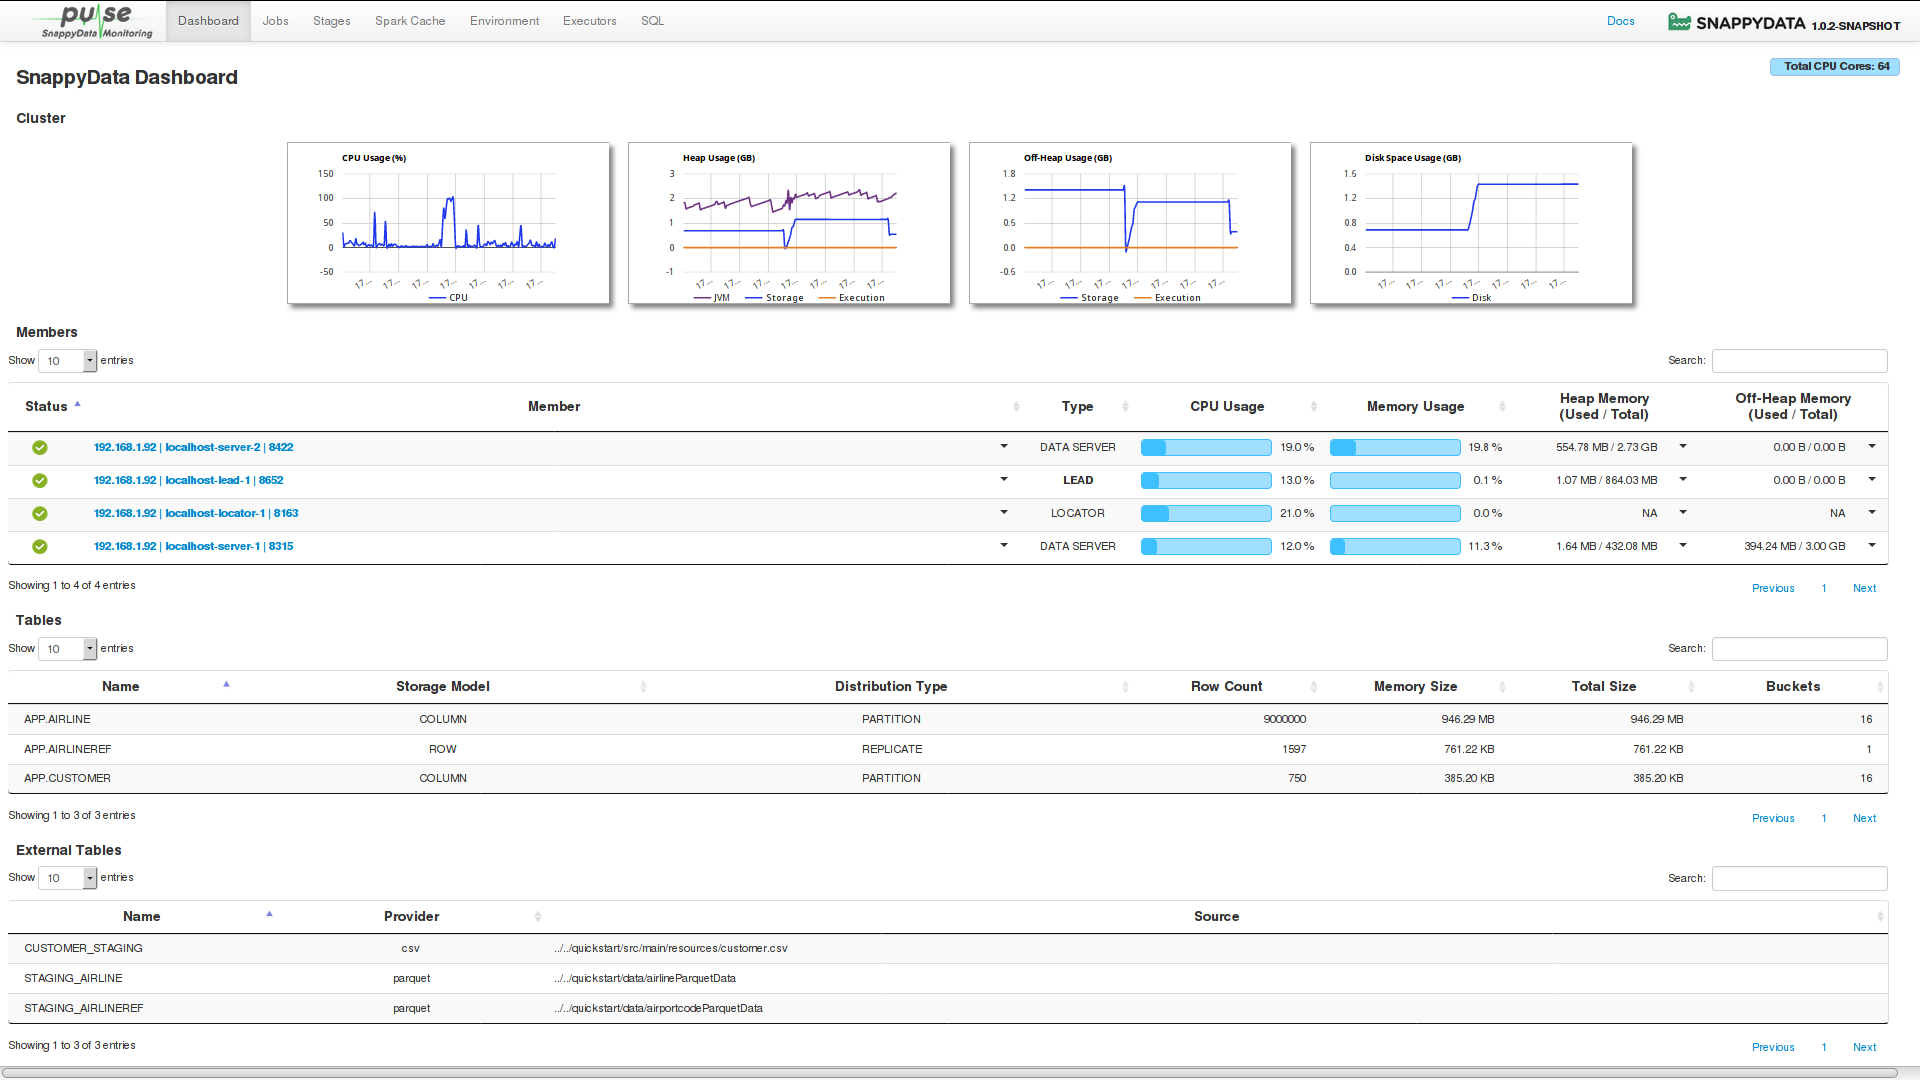
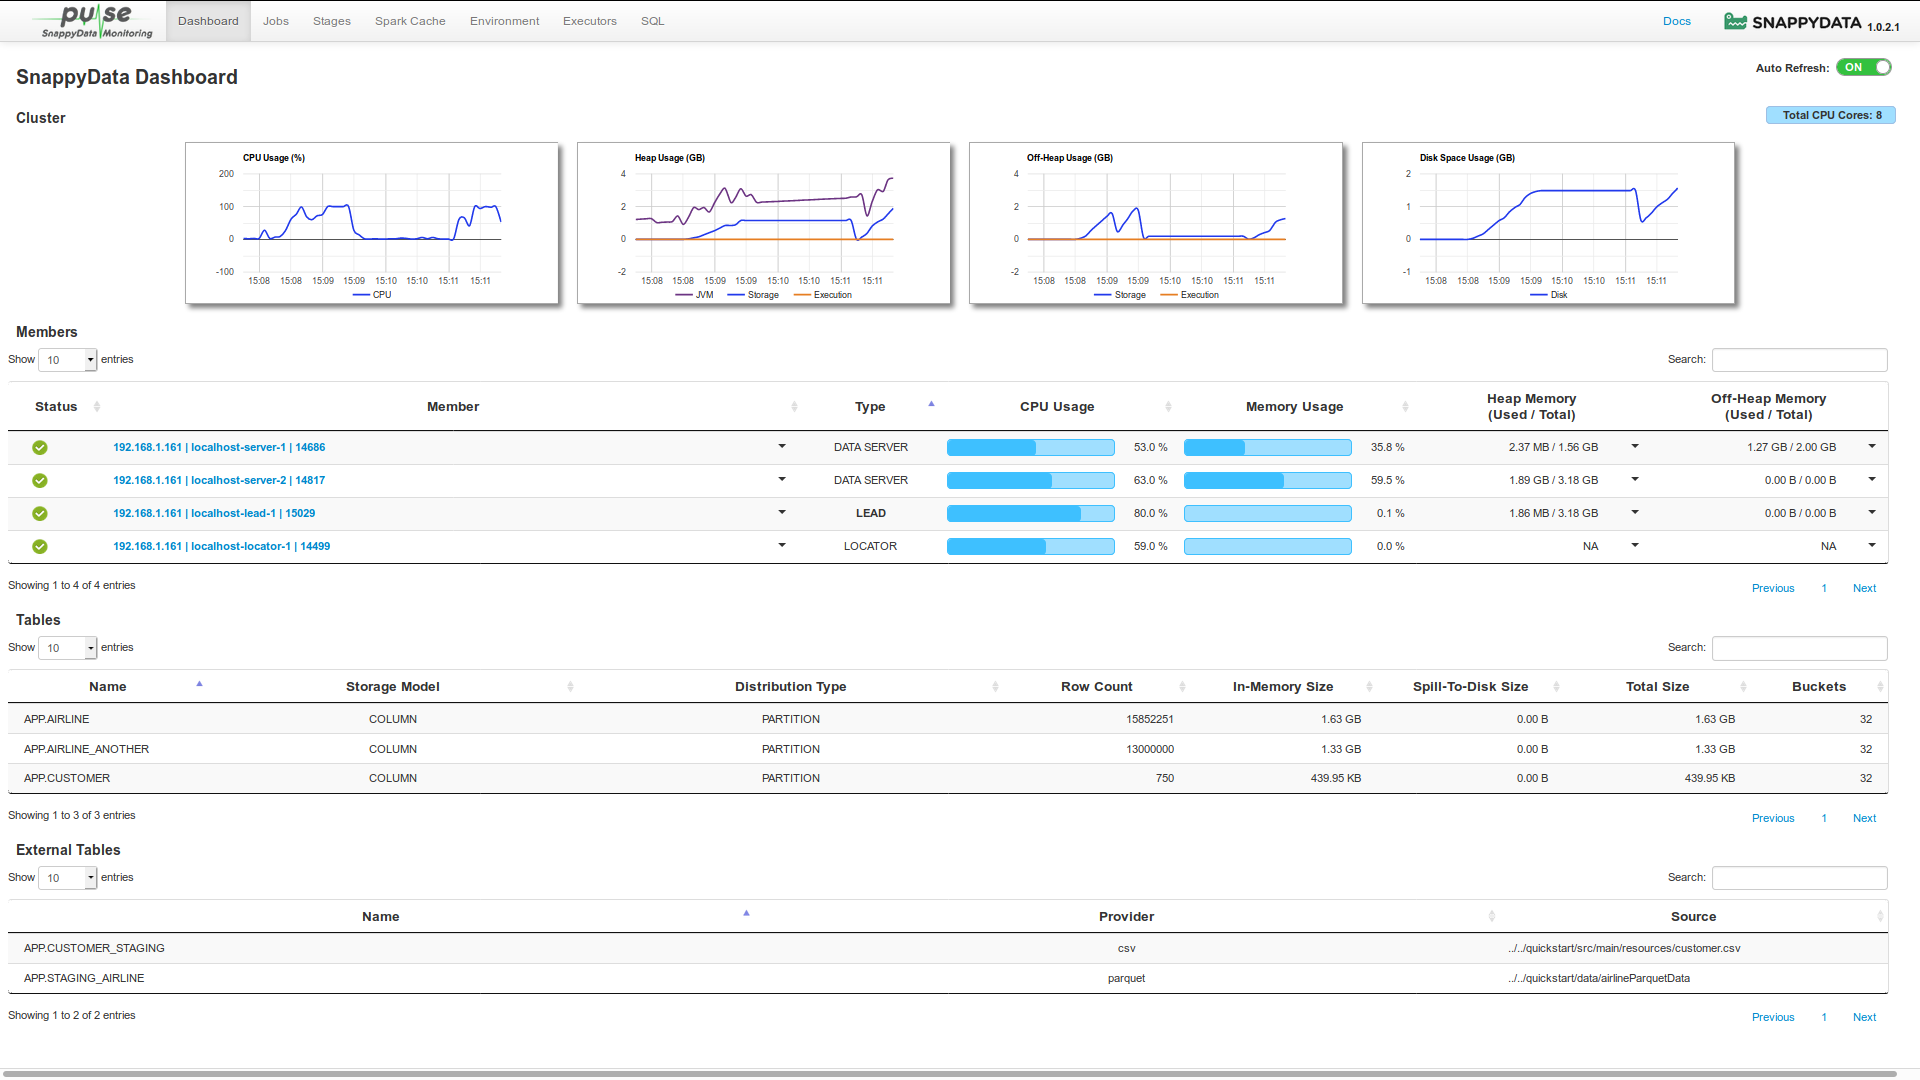
Updates to include Auto-Refresh switch on the SnappyData Pulse page. Some minor language and grammar edits.

diff --git a/docs/monitoring/monitoring.md b/docs/monitoring/monitoring.md
@@ -1,7 +1,7 @@
 # SnappyData Pulse
 
-SnappyData Pulse is a dashboard that provides a real time view into cluster members, member logs, resource usage, running Jobs, SQL queries along with performance data.  This simple widget based view allows you to easily navigate, visualize, and monitor your cluster. You can monitor the overall status of the cluster as well as the status of each member in the cluster.
-All the usage details are automatically refreshed after every 5 seconds.
+SnappyData Pulse is a dashboard that provides a real-time view into cluster members, member logs, resource usage, running Jobs, SQL queries along with performance data.  This simple widget based view allows you to navigage easily, visualize, and monitor your cluster. You can monitor the overall status of the cluster as well as the status of each member in the cluster.
+All the usage details can be set to automatically refresh after every five seconds.
 
 
 To access SnappyData Pulse, start your cluster and open [http:`<leadhost>`:5050/dashboard/](http:`<leadhost>`:5050/dashboard/) in the web browser.
@@ -39,7 +39,8 @@ On the top-right side of the SnappyData Pulse page, you can view the version det
 
 <a id="dashboard"></a>
 ## Dashboard
-The Dashboard page graphically presents various cluster level statistics that can be used to monitor the current health status of a cluster. The statistics on the dashboard page are automatically updated after every 5 seconds.
+The Dashboard page graphically presents various cluster-level statistics that can be used to monitor the current health status of a cluster. The statistics on the dashboard page can be set to automatically update after every five seconds.  If you want to turn on the auto-refresh, use the **Auto Refresh** switch that is provided on the upper-right corner.
+![](../Images/AutoRefresh-is-ON.png)
 
 You can view the total number of physical CPU cores present in your cluster on the top-right side of the page.
 ![](../Images/CPU_cores.png)
@@ -55,7 +56,7 @@ The **Dashboard** page displays the following sections:
 
 * [External Tables](#external-table)
 
-You can use the search and sort functionalities in any of the sections, except for the **Cluster** section.  Sorting is enabled to sort items in an ascending and descending order. Further you can also set the number of items that must be listed in each of these sections.
+You can use the search and sort functionalities in any of the sections, except for the **Cluster** section.  Sorting is enabled to sort items in an ascending and descending order. Further, you can also set the number of items that must be listed in each of these sections.
 
 <a id="cluster"></a>
 ### Cluster
@@ -72,7 +73,7 @@ In the **Cluster** section, you can view the following graphs which are automati
 
 <a id="member"></a>
 ### Members
-In the **Members** section,  you can view, in a tabular format, the details of each locator, data server, and lead member within a cluster. The details are automatically refreshed after every 5 seconds.
+In the **Members** section,  you can view, in a tabular format, the details of each locator, data server, and lead member within a cluster. The details can be set to automatically refresh after every five seconds.
 ![Members](../Images/Dashboard-MembersList.png)
 
 This table provides member details in the following columns:
@@ -98,7 +99,7 @@ This table provides member details in the following columns:
 
 <a id="table"></a>
 ### Tables
-The **Tables** section lists all the tables in the cluster along with their corresponding statistical details. All these details are automatically refreshed after every 5 seconds.
+The **Tables** section lists all the tables in the cluster along with their corresponding statistical details. All these details can be set to automatically refresh after every five seconds.
 
 ![Tables](../Images/Dashboard-TablesList.png)
 
@@ -115,7 +116,7 @@ The following columns are displayed in this section:
 |      **Buckets**  |  Displays the total number of buckets in the data table.|
 
 ### External Tables
-The **External Tables** section lists all the external tables present in the cluster along with their various statistical details. The displayed details are automatically refreshed after each 5 seconds.
+The **External Tables** section lists all the external tables present in the cluster along with their various statistical details. The displayed details can be set to automatically refresh after every five seconds.
 
 ![External Tables](../Images/Dashboard-Ext-Tables.png)
 
@@ -124,7 +125,7 @@ The following columns are displayed in this section:
 | Column | Description |
 |--------|--------|
 |     **Name**   |   Displays the name of the external table.     |
-|      **Provider**  |  Displays the data store provider that is used when the external table was created. For example, Parquet, CSV, JDBC etc.      |
+|      **Provider**  |  Displays the data store provider that is used when the external table was created. For example, Parquet, CSV, JDBC, etc.      |
 |  **Source**      |For Parquet and CSV format, the path of the data file used to create the external table is displayed. For JDBC, the name of the client driver is displayed.   |
 
 <a id="memberdetails"></a>
@@ -133,6 +134,7 @@ The following columns are displayed in this section:
 The **Member Details** view shows the usage trend and [statistics](#memberstat) of a specific cluster member. To check the **Member** **Details** view,  go to the [Members](#member) section and click the link in the **Member** column. Here you can also view the [Member Logs](#memberlogs) generated for a cluster member.
 
 ![Member Detail View](../Images/memberdetailview.png)
+
 
 <a id="memberstat"></a>
 ### Member Statistics
@@ -147,7 +149,7 @@ The following member specific statistics are displayed:
 |**Heap Memory**|Displays the total available heap memory, used heap memory, their distribution into heap storage, heap execution memory and their utilization.|
 |**Off-Heap Memory Usage**|Displays the members total off-heap memory, used off-heap memory, their distribution into off-heap storage and off-heap execution memory, and their utilization.|
 
-The usage trends of the member is represented in the following graphs:
+The usage trends of the member are represented in the following graphs:
 
 |Graphs|Description|
 |--------|--------|
@@ -210,7 +212,7 @@ The Environment page provides detailed configurations for Spark environment incl
 
 <a id="executors"></a>
 ## Executors
-Executors are the entities that performs the tasks within a Spark job. Each Spark job is divided into multiple stages which can have one or more tasks depending on the number of partitions to be processed. All these tasks are scheduled on executor nodes which actually run them.
+Executors are the entities that perform the tasks within a Spark job. Each Spark job is divided into multiple stages which can have one or more tasks depending on the number of partitions to be processed. All these tasks are scheduled on executor nodes which actually run them.
 
 <a id="jobs"></a>
 ## Jobs
@@ -222,7 +224,7 @@ The **Jobs** page lists all the Spark jobs. Each Spark action is translated as a
 
 * **Status**: Displays the status of the job.
 
-* **Stages**: Click on the stage to view its details. The table displays the time taken for completion of each stage. 
+* **Stages**: Click on the stage to view its details. The table displays the time taken for the completion of each stage. 
 
 !!! Tip
 	You can cancel a long running job, using the **Kill** option. </br>![kill](../Images/kill_job.png)
@@ -235,10 +237,10 @@ On this page, you can view the total time required for all the tasks in a job to
 
 ![](../Images/query_analysis_stage.png)
 
-* **Scheduler Delay** indicates the waiting period for the task. Delays can  be caused if there are too many concurrent jobs.
+* **Scheduler Delay** indicates the waiting period for the task. Delays can be caused if there are too many concurrent jobs.
 
 * **Shuffle reads and writes**: Shuffles are written to disk and can take a lot of time to write and read. This can be avoided by using colocated and replicated tables. You can use high-performance SSD drives for temporary storage (spark.local.dir) to improve shuffle time.
 
 * **Number of parallel tasks**: Due to concurrency, multiple queries may take cores and a specific query can take longer. To fix this, you can create a new scheduler and [assign appropriate cores to it](../best_practices/setup_cluster.md).
 
-* **GC time**: Occasionally, on-heap object creation can slow down a query because of garbage collection. In these cases, it is recommended that you increase the on-heap memory (especially when you have row tables).
+* **GC time**: Occasionally, on-heap object creation can slow down a query because of garbage collection. In these cases, it is recommended that you increase the on-heap memory, especially when you have row tables.
